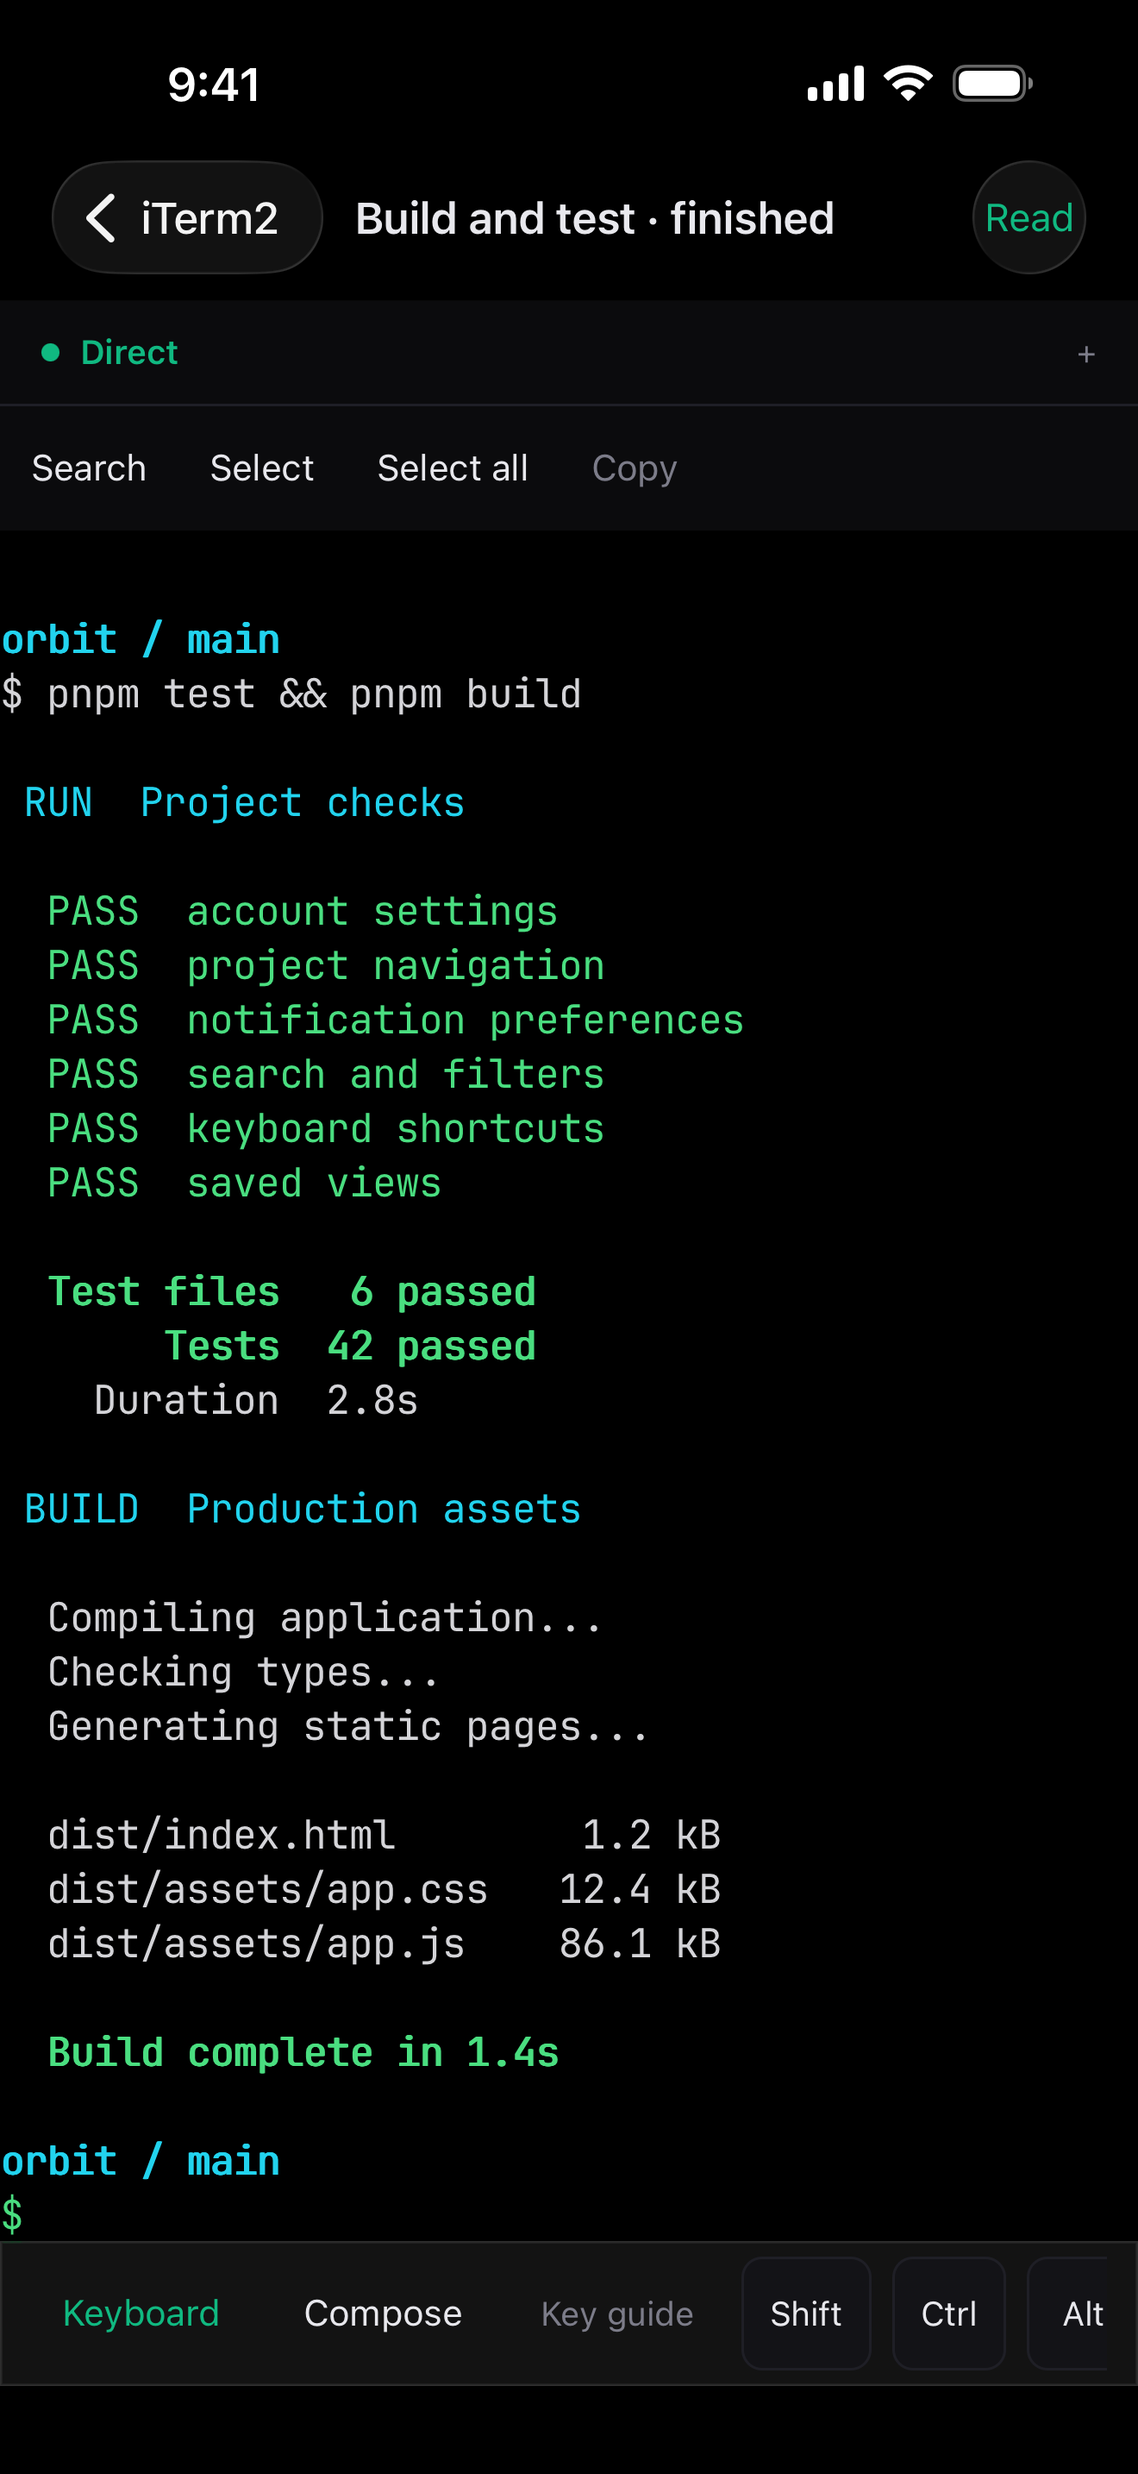
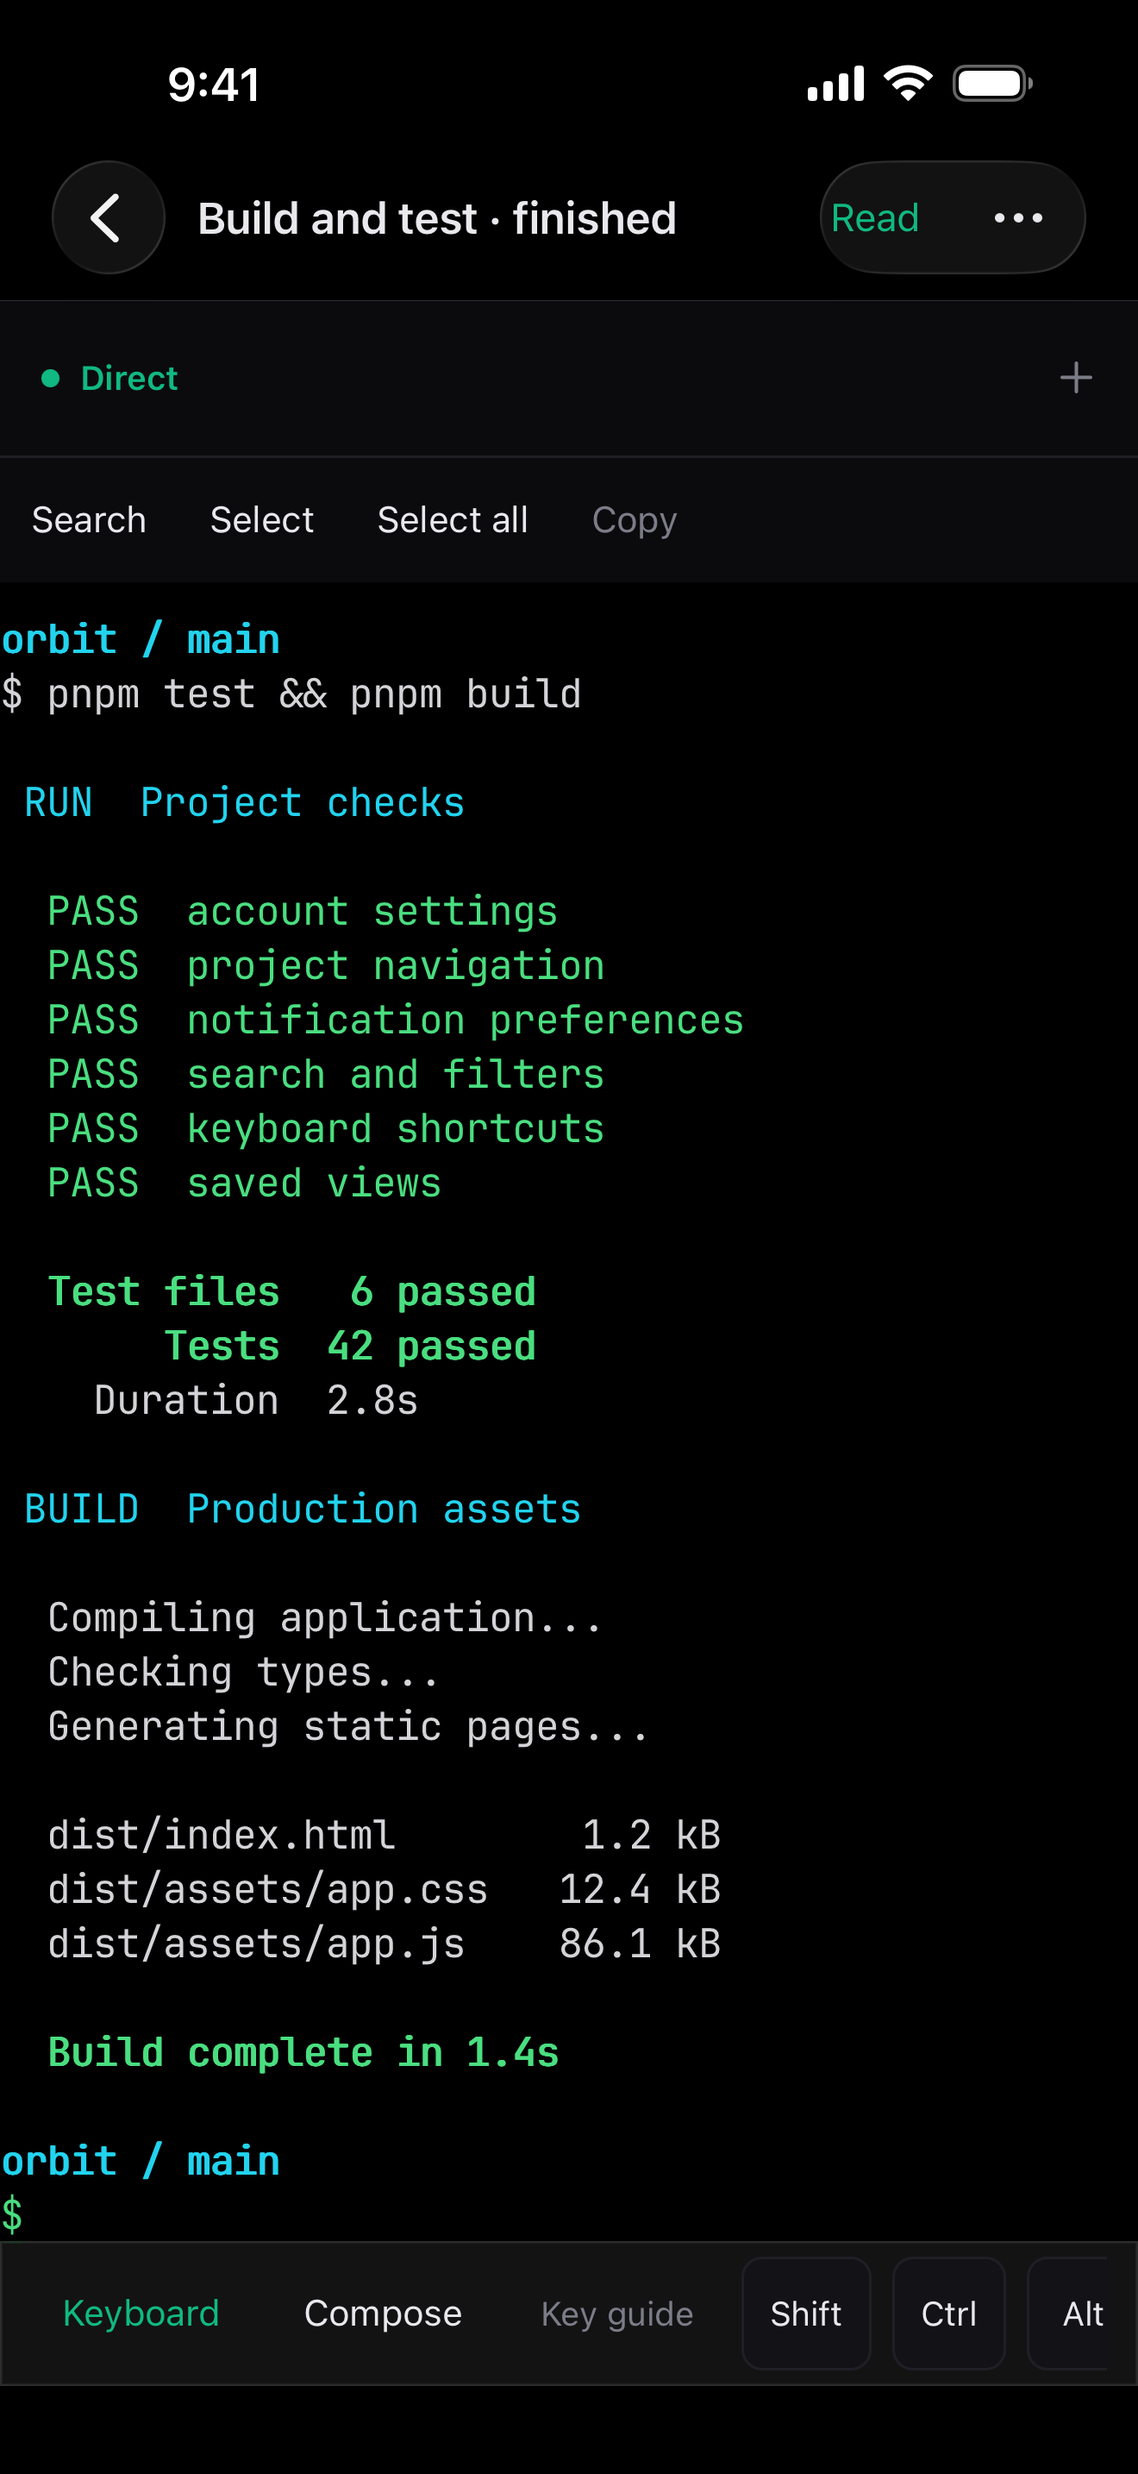
Give terminal typing more room and refresh store screenshots

diff --git a/apps/mobile/src/terminal/XtermView.tsx b/apps/mobile/src/terminal/XtermView.tsx
@@ -35,6 +35,7 @@ interface Props {
   inputReady?: boolean;
   hardwareKeyboard?: boolean;
   screenReader?: boolean;
+  hideToolbar?: boolean;
   onInput?: (data: string) => boolean;
   onPaste?: (text: string, submit: boolean) => boolean;
 }
@@ -57,6 +58,7 @@ export function XtermView({
   inputReady = false,
   hardwareKeyboard = false,
   screenReader = false,
+  hideToolbar = false,
   onInput,
   onPaste,
 }: Props) {
@@ -409,65 +411,67 @@ export function XtermView({
   );
   return (
     <View style={{ flex: 1, minHeight: 0 }}>
-      <View
-        style={{
-          flexDirection: "row",
-          flexWrap: "wrap",
-          alignItems: "center",
-          backgroundColor: tokens.surface,
-          minHeight: 48,
-        }}
-      >
-        <Pressable
-          accessibilityRole="button"
-          accessibilityLabel="Search terminal history"
-          onPress={() => setSearchOpen((value) => !value)}
-          style={{ padding: 12, minHeight: 48, justifyContent: "center" }}
-        >
-          <Text style={{ color: tokens.text }}>Search</Text>
-        </Pressable>
-        <Pressable
-          accessibilityRole="button"
-          accessibilityLabel="Select terminal text"
-          accessibilityState={{ selected: selecting }}
-          onPress={() => {
-            const enabled = !selecting;
-            setSelecting(enabled);
-            command({ type: "select", enabled });
+      {!hideToolbar ? (
+        <View
+          style={{
+            flexDirection: "row",
+            flexWrap: "wrap",
+            alignItems: "center",
+            backgroundColor: tokens.surface,
+            minHeight: 48,
           }}
-          style={{ padding: 12, minHeight: 48, justifyContent: "center" }}
         >
-          <Text style={{ color: selecting ? tokens.accents.emerald : tokens.text }}>Select</Text>
-        </Pressable>
-        <Pressable
-          accessibilityRole="button"
-          accessibilityLabel="Select all loaded terminal text"
-          onPress={() => command({ type: "select-all" })}
-          style={{ padding: 12, minHeight: 48, justifyContent: "center" }}
-        >
-          <Text style={{ color: tokens.text }}>Select all</Text>
-        </Pressable>
-        <Pressable
-          accessibilityRole="button"
-          accessibilityLabel="Copy terminal selection"
-          disabled={!selected}
-          onPress={() => command({ type: "copy", format: "text" })}
-          style={{ padding: 12, minHeight: 48, justifyContent: "center" }}
-        >
-          <Text style={{ color: selected ? tokens.text : tokens.textMuted }}>Copy</Text>
-        </Pressable>
-        {selected ? (
           <Pressable
             accessibilityRole="button"
-            accessibilityLabel="Copy terminal selection with formatting"
-            onPress={() => command({ type: "copy", format: "html" })}
+            accessibilityLabel="Search terminal history"
+            onPress={() => setSearchOpen((value) => !value)}
             style={{ padding: 12, minHeight: 48, justifyContent: "center" }}
           >
-            <Text style={{ color: tokens.text }}>Styled copy</Text>
+            <Text style={{ color: tokens.text }}>Search</Text>
           </Pressable>
-        ) : null}
-      </View>
-      {selecting ? (
+          <Pressable
+            accessibilityRole="button"
+            accessibilityLabel="Select terminal text"
+            accessibilityState={{ selected: selecting }}
+            onPress={() => {
+              const enabled = !selecting;
+              setSelecting(enabled);
+              command({ type: "select", enabled });
+            }}
+            style={{ padding: 12, minHeight: 48, justifyContent: "center" }}
+          >
+            <Text style={{ color: selecting ? tokens.accents.emerald : tokens.text }}>Select</Text>
+          </Pressable>
+          <Pressable
+            accessibilityRole="button"
+            accessibilityLabel="Select all loaded terminal text"
+            onPress={() => command({ type: "select-all" })}
+            style={{ padding: 12, minHeight: 48, justifyContent: "center" }}
+          >
+            <Text style={{ color: tokens.text }}>Select all</Text>
+          </Pressable>
+          <Pressable
+            accessibilityRole="button"
+            accessibilityLabel="Copy terminal selection"
+            disabled={!selected}
+            onPress={() => command({ type: "copy", format: "text" })}
+            style={{ padding: 12, minHeight: 48, justifyContent: "center" }}
+          >
+            <Text style={{ color: selected ? tokens.text : tokens.textMuted }}>Copy</Text>
+          </Pressable>
+          {selected ? (
+            <Pressable
+              accessibilityRole="button"
+              accessibilityLabel="Copy terminal selection with formatting"
+              onPress={() => command({ type: "copy", format: "html" })}
+              style={{ padding: 12, minHeight: 48, justifyContent: "center" }}
+            >
+              <Text style={{ color: tokens.text }}>Styled copy</Text>
+            </Pressable>
+          ) : null}
+        </View>
+      ) : null}
+      {selecting && !hideToolbar ? (
         <Text
           style={{
             color: tokens.textMuted,

diff --git a/apps/mobile/test/xterm-screen-integration.test.ts b/apps/mobile/test/xterm-screen-integration.test.ts
@@ -3,6 +3,46 @@ import { createRoot } from "test-renderer";
 import { expect, it, vi } from "vitest";
 import type { TerminalFrame } from "../src/terminal/bridge";
 
+it("hides terminal tools for typing while keeping active search and the WebView alive", async () => {
+  const { XtermView } = await import("../src/terminal/XtermView");
+  const root = createRoot();
+  const props = {
+    cols: 80,
+    fontSize: 14,
+    fitWidth: false,
+    cursor: null,
+    initialAnchor: null,
+    onViewport() {},
+    onLoadOlder() {},
+    rows: [],
+  };
+  const render = (hideToolbar: boolean) =>
+    act(async () => root.render(createElement(XtermView, { ...props, hideToolbar })));
+  const button = (label: string) =>
+    root.container.queryAll((node) => node.props.accessibilityLabel === label)[0];
+  try {
+    await render(false);
+    const web = root.container.queryAll((node) => node.type === "WebView")[0];
+    await act(async () => button("Search terminal history")!.props.onPress());
+    await render(true);
+    for (const label of [
+      "Search terminal history",
+      "Select terminal text",
+      "Select all loaded terminal text",
+      "Copy terminal selection",
+    ])
+      expect(button(label)).toBeUndefined();
+    expect(button("Find in loaded terminal history")).toBeDefined();
+    expect(button("Close terminal search")).toBeDefined();
+    expect(root.container.queryAll((node) => node.type === "WebView")[0]).toBe(web);
+    await render(false);
+    expect(button("Search terminal history")).toBeDefined();
+    expect(button("Select terminal text")).toBeDefined();
+  } finally {
+    await act(async () => root.unmount());
+  }
+});
+
 (globalThis as typeof globalThis & { IS_REACT_ACT_ENVIRONMENT: boolean }).IS_REACT_ACT_ENVIRONMENT =
   true;
 const scripts = vi.hoisted(() => [] as string[]);
@@ -27,6 +67,7 @@ vi.mock("react-native", () => ({
   },
   View: "View",
   Text: "Text",
+  TextInput: "TextInput",
   Pressable: "Pressable",
   ScrollView: "ScrollView",
   useWindowDimensions: () => ({ width: 390, height: 800 }),

diff --git a/apps/mobile/app/c/[fp]/s/[sid].tsx b/apps/mobile/app/c/[fp]/s/[sid].tsx
@@ -4,7 +4,7 @@ import { Stack, useFocusEffect, useLocalSearchParams, useRouter } from "expo-rou
 import { useHeaderHeight } from "expo-router/react-navigation";
 import { useCallback, useEffect, useRef, useState } from "react";
 import { Pressable, Text, View } from "react-native";
-import { KeyboardAvoidingView } from "react-native-keyboard-controller";
+import { KeyboardAvoidingView, useKeyboardState } from "react-native-keyboard-controller";
 import { useSafeAreaInsets } from "react-native-safe-area-context";
 import {
   type ComposedInputResult,
@@ -38,6 +38,7 @@ import {
 } from "../../../../src/util/session-state";
 
 export default function Session() {
+  const keyboardVisible = useKeyboardState((state) => state.isVisible);
   const hardwareKeyboard = useHardwareKeyboard();
   const screenReader = useScreenReader();
   const terminalControls = useRef(new TerminalControls()).current;
@@ -264,8 +265,8 @@ export default function Session() {
             ),
           }}
         />
-        <TransportStatus fp={fp ?? ""} />
-        {mouseMode ? (
+        {keyboardVisible ? null : <TransportStatus fp={fp ?? ""} />}
+        {mouseMode && !keyboardVisible ? (
           <Text
             accessibilityRole="text"
             accessibilityLiveRegion="polite"
@@ -289,6 +290,7 @@ export default function Session() {
             <EmptyState text="Waiting for output…" />
           ) : (
             <ScreenView
+              hideToolbar={keyboardVisible}
               terminalControls={terminalControls}
               inputReady={inputReady && terminalSupported && !readingMode}
               hardwareKeyboard={hardwareKeyboard}

diff --git a/apps/mobile/src/screen/ScreenView.tsx b/apps/mobile/src/screen/ScreenView.tsx
@@ -30,6 +30,7 @@ export function ScreenView({
   onRetryOutput,
   onProtectHistory,
   readingMode = false,
+  hideToolbar = false,
   onRenderer,
   mouseMode = false,
   onMouseClick,
@@ -52,6 +53,7 @@ export function ScreenView({
   onRetryOutput?: () => void;
   onProtectHistory?: (key: string | null) => void;
   readingMode?: boolean;
+  hideToolbar?: boolean;
   onRenderer?: (renderer: "webgl" | "dom") => void;
   mouseMode?: boolean;
   onMouseClick?: (click: TerminalMouseClick) => void;
@@ -282,10 +284,11 @@ export function ScreenView({
               : null}
           </View>
         ) : null}
-        {canLoad ||
-        historyStatus === "oversized" ||
-        canRefresh ||
-        historyStatus === "unavailable" ? (
+        {!hideToolbar &&
+        (canLoad ||
+          historyStatus === "oversized" ||
+          canRefresh ||
+          historyStatus === "unavailable") ? (
           <View
             style={{
               flexDirection: "row",
@@ -320,7 +323,7 @@ export function ScreenView({
             {canRefresh && onRefreshHistory ? action("Refresh history", onRefreshHistory) : null}
           </View>
         ) : null}
-        {readingMode ? (
+        {readingMode && !hideToolbar ? (
           <View style={{ alignItems: "flex-end" }}>
             <Pressable
               accessibilityRole="button"
@@ -365,6 +368,7 @@ export function ScreenView({
         ) : null}
         {!readingMode ? (
           <XtermView
+            hideToolbar={hideToolbar}
             controls={terminalControls}
             inputReady={inputReady}
             hardwareKeyboard={hardwareKeyboard}

diff --git a/apps/mobile/listing-review.html b/apps/mobile/listing-review.html
@@ -35,7 +35,7 @@ header .meta{color:#9a948a;font-size:12px;margin-top:2px}
 .gal img{display:block;width:120px;border:1px solid #ddd6c8;border-radius:6px;background:#fff}
 .gal span{display:block;margin-top:4px;max-width:120px;overflow:hidden;text-overflow:ellipsis;white-space:nowrap}
 @media(max-width:720px){.cols{flex-direction:column}}
-</style></head><body><header><h1>Listing review</h1><div class="app">Shellbell: Remote Terminal</div><div class="meta">Generated 2026-10-07 22:04:05 EDT from fastlane metadata .txt files. Rerun build-review.sh after editing copy.</div><div class="tabs"><button class="tab on" data-p="iOS" onclick="show('iOS')">iOS</button><button class="tab" data-p="Android" onclick="show('Android')">Android</button></div></header><div class="val"><pre>listing-kit — validating: .
+</style></head><body><header><h1>Listing review</h1><div class="app">Shellbell: Remote Terminal</div><div class="meta">Generated 2026-10-07 23:44:14 EDT from fastlane metadata .txt files. Rerun build-review.sh after editing copy.</div><div class="tabs"><button class="tab on" data-p="iOS" onclick="show('iOS')">iOS</button><button class="tab" data-p="Android" onclick="show('Android')">Android</button></div></header><div class="val"><pre>listing-kit — validating: .
 == Apple App Store ==
  locale en-US:
   ✓ name: 26/30 chars

diff --git a/apps/mobile/test/session-route.test.ts b/apps/mobile/test/session-route.test.ts
@@ -225,6 +225,23 @@ describe("mounted focused session route", () => {
       const input = root.container.queryAll((n) => n.type === "InputBar")[0];
       expect(screen().props.readingMode).toBe(false);
       expect(button("Session actions")).toBeDefined();
+      const connectionStrips = () =>
+        root.container.queryAll(
+          (node) =>
+            node.type === "NativePressable" &&
+            String(node.props.accessibilityLabel).startsWith("Connection:"),
+        );
+      expect(connectionStrips()).toHaveLength(1);
+      const terminal = screen();
+      keyboardLayout.keyboardVisible = true;
+      await render("tmux:a");
+      expect(connectionStrips()).toHaveLength(0);
+      expect(screen()).toBe(terminal);
+      expect(screen().props.hideToolbar).toBe(true);
+      keyboardLayout.keyboardVisible = false;
+      await render("tmux:a");
+      expect(connectionStrips()).toHaveLength(1);
+      expect(screen().props.hideToolbar).toBe(false);
       await act(async () => button("Switch to reading view").props.onPress());
       expect(screen().props.readingMode).toBe(true);
       expect(

diff --git a/apps/mobile/test/screen-view.test.ts b/apps/mobile/test/screen-view.test.ts
@@ -11,6 +11,25 @@ import { describe, expect, it, vi } from "vitest";
 import { MobileScreenStream, type MobileStreamSnapshot } from "../src/net/mobile-screen-stream";
 import type { ScreenView as ScreenViewType } from "../src/screen/ScreenView";
 
+it("hides history and reading controls for the keyboard without replacing the terminal", async () => {
+  const m = await mount();
+  try {
+    const terminal = m.find("XtermView");
+    expect(m.button("Load older")).toBeDefined();
+    await m.render({ hideToolbar: true });
+    expect(m.button("Load older")).toBeUndefined();
+    expect(m.find("XtermView")).toBe(terminal);
+    expect(terminal.props.hideToolbar).toBe(true);
+    await m.render({ readingMode: true });
+    expect(m.button("Select text")).toBeUndefined();
+    await m.render({ hideToolbar: false });
+    expect(m.button("Load older")).toBeDefined();
+    expect(m.button("Select text")).toBeDefined();
+  } finally {
+    await m.close();
+  }
+});
+
 (globalThis as typeof globalThis & { IS_REACT_ACT_ENVIRONMENT: boolean }).IS_REACT_ACT_ENVIRONMENT =
   true;
 vi.mock("react-native", () => ({

diff --git a/apps/mobile/test/helpers/keyboard-layout.ts b/apps/mobile/test/helpers/keyboard-layout.ts
@@ -9,6 +9,7 @@ const keyboardLayout = vi.hoisted(() => ({
   rejectMeasurement: false,
   keyboardHeight: 300,
   progress: 1,
+  keyboardVisible: false,
 }));
 
 export { keyboardLayout };
@@ -96,5 +97,9 @@ vi.mock("react-native-keyboard-controller", async () => {
   const source = await vi.importActual<{ default: import("react").ComponentType }>(
     "react-native-keyboard-controller/src/components/KeyboardAvoidingView/index.tsx",
   );
-  return { KeyboardAvoidingView: source.default };
+  return {
+    KeyboardAvoidingView: source.default,
+    useKeyboardState: (select: (state: { isVisible: boolean }) => unknown) =>
+      select({ isVisible: keyboardLayout.keyboardVisible }),
+  };
 });

diff --git a/apps/mobile/QA.md b/apps/mobile/QA.md
@@ -41,6 +41,10 @@ and touch targets update correctly, and that controls remain visible.
 
 ## Pairing, sessions and input
 
+- [ ] Open and close the software keyboard in Terminal and Reading modes. Hide
+  the connection strip, history actions and selection toolbar while typing;
+  restore them afterward without losing the draft, viewport or session. Active
+  search remains usable with the keyboard, and output failures remain visible.
 - [ ] Verify the indicator says Direct only after route commit; Wi-Fi and cellular do not determine that label.
 - [ ] Interrupt WebRTC: retain the last screen, pause input and screen subscriptions, show retry progress, and verify no terminal streaming through the relay.
 - [ ] Choose Use relay temporarily: show Relay fallback, resume terminal traffic, recover direct automatically, then verify the next direct loss pauses again.

diff --git a/apps/mobile/CHANGELOG.md b/apps/mobile/CHANGELOG.md
@@ -4,6 +4,8 @@
 
 ### Pending launch candidate changes
 
+- Hide connection, history and selection toolbars while the software keyboard is
+  open, keeping more terminal output visible without losing the draft or session.
 - Adopt Expo's scene lifecycle for iOS 27 and compile Expo modules from source
   with the selected Xcode toolchain. Keep the app single-window.
 - Keep native window and navigation backgrounds dark during adaptive display
